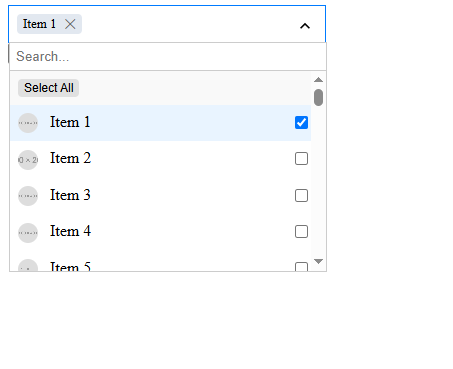
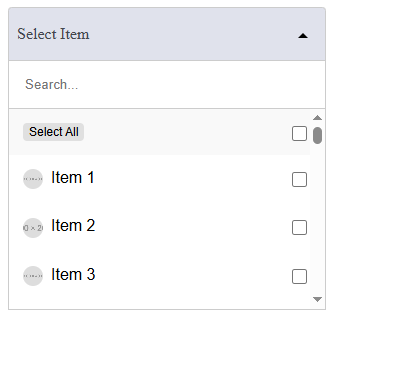
Update custom select component styles and enhance dropdown functionality

diff --git a/src/app/shared/custom-select/custom-select.html b/src/app/shared/custom-select/custom-select.html
@@ -16,17 +16,19 @@
       </ng-template>
     </div>
     <span class="arrow" [class.open]="dropdownOpen">
-      <svg xmlns="http://www.w3.org/2000/svg" width="20" height="20" viewBox="0 0 24 24">
-        <path d="M7.41 8.59L12 13.17l4.59-4.58L18 10l-6 6-6-6z"></path>
+      <svg viewBox="0 0 24 24" width="24px" height="24px" focusable="false" aria-hidden="true">
+        <path d="M7 10l5 5 5-5z"></path>
       </svg>
     </span>
 
   </div>
   <div class="dropdown" *ngIf="dropdownOpen">
-    <input *ngIf="config.searchable !== false" type="text" [(ngModel)]="searchTerm" (click)="$event.stopPropagation()" (input)="filterOptions()"
-      placeholder="Search..." id="search_filed" autocomplete="off" />
+    <input *ngIf="config.searchable !== false" type="text" [(ngModel)]="searchTerm" (click)="$event.stopPropagation()"
+      (input)="filterOptions()" placeholder="Search..." id="search_filed" autocomplete="off" />
     <ul (scroll)="onScroll($event)">
-      <li *ngIf="config.multiple" class="select-actions" (click)="areAllSelected() ? unselectAll() : selectAll()">
+      <li *ngIf="config.multiple && this.visibleOptions.length != 0" class="select-actions" (click)="areAllSelected() ? unselectAll() : selectAll()">
+        <input type="checkbox" [checked]="this.selectedValues.length === this.options.length" name="checkbox_all"
+          class="checkbox_select" />
         <button type="button">
           {{ areAllSelected() ? 'UnSelect All' : 'Select All' }}
         </button>
@@ -40,13 +42,15 @@
   ">
 
         <img *ngIf="item[imageField]" [src]="item[imageField]" class="select-item-image" alt="item" />
-        {{ item[labelField] }}
+        <span class="labelField">{{ item[labelField] }}</span>
         <ng-container *ngIf="config.multiple">
           <input type="checkbox" [checked]="selectedValues.includes(item[valueField])" name="checkbox"
             class="checkbox_select" />
         </ng-container>
       </li>
-
+      <div *ngIf="this.visibleOptions.length === 0" class="no-results-container">
+        <span class="no-results">No results found</span>
+      </div>
 
     </ul>
   </div>

diff --git a/src/app/shared/custom-select/custom-select.css b/src/app/shared/custom-select/custom-select.css
@@ -4,15 +4,11 @@
   position: relative;
   cursor: pointer;
   width: 100%;
-  background: #fff;
-}
-
-.custom-select-container.open {
-  border-color: #007bff;
-}
-
-.custom-select-container .custom-select-value {
-  font-size: 14px;
+  background: #e0e2ec;
+  border-bottom-right-radius: 0;
+  border-bottom-left-radius: 0;
+  border-top-left-radius: 4px;
+  border-top-right-radius: 4px;
 }
 
 .selected-items {
@@ -21,9 +17,14 @@
   gap: 4px;
 }
 
+#search_filed:focus-visible {
+    outline: none;
+}
+
 .selected-items .selected-item {
-  background-color: #e2e8f0;
-  padding: 2px 6px;
+  background-color: #0079fe;
+  color: white;
+  padding: 9px 6px;
   border-radius: 4px;
   font-size: 13px;
   display: flex;
@@ -32,7 +33,6 @@
 }
 
 .selected-items .selected-item.hidden-count {
-  background-color: #cbd5e0;
   font-weight: bold;
 }
 
@@ -44,19 +44,16 @@
   padding: 0;
   margin-left: 4px;
   line-height: 1;
-  color: #666;
-}
-
-.selected-items .selected-item .remove-btn:hover {
-  color: #000;
+  color: white;
 }
 
 .selected-items .placeholder {
-  color: #999;
+  color: #44474e;
+  padding: 9px 0;
 }
 
-.custom-select-container {
-  position: relative;
+.labelField {
+  font-family: sans-serif;
 }
 
 .custom-select-container .arrow {
@@ -76,7 +73,7 @@
 .custom-select-container .dropdown {
   position: absolute;
   top: 100%;
-  left: 0;
+  left: -1px;
   width: 100%;
   border: 1px solid #ccc;
   background: white;
@@ -85,7 +82,7 @@
 
 .custom-select-container .dropdown #search_filed {
   width: 100%;
-  padding: 6px;
+  padding: 16px;
   box-sizing: border-box;
   border: none;
   border-bottom: 1px solid #ccc;
@@ -100,7 +97,7 @@
 }
 
 .custom-select-container .dropdown ul li {
-  padding: 8px;
+  padding: 14px;
   cursor: pointer;
   position: relative;
 }
@@ -142,4 +139,16 @@
 .checkbox_select {
   position: absolute;
   right: 0;
+  width: 15px;
+  height: 15px;
+}
+.no-results-container {
+  padding: 16px;
+  text-align: center;
+  color: #888;
+}
+.no-results {
+  font-size: 14px;
+  font-weight: bold;
+  color: #44474e; 
 }
